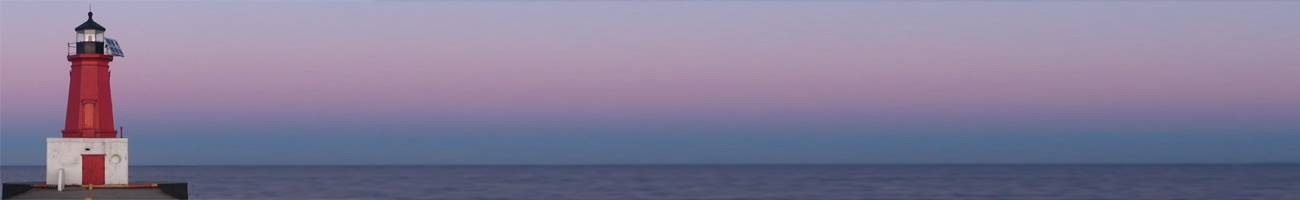
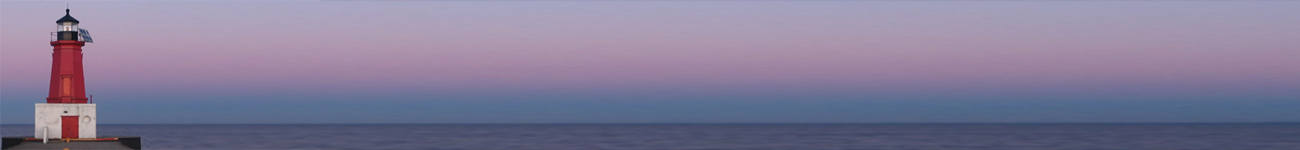
Updated styles

Changed region(s): [[0.0, 0.0533, 0.1538, 1.0]]

diff --git a/src/styles/style.scss b/src/styles/style.scss
@@ -40,7 +40,7 @@ body {
 	height: 100px;
 	h1 {
 		@include flex-item(1);
-		@include cover-text(2.5em);
+		@include cover-text(3em);
 	}
 }
 
@@ -58,9 +58,9 @@ body {
 
 @media (min-width: 769px) {
 	.header {
-		height: 200px;
+		height: 150px;
 		h1 {
-			font-size: 4em;
+			font-size: 3.5em;
 		}
 	}
 }

diff --git a/src/styles/_loading.scss b/src/styles/_loading.scss
@@ -4,6 +4,7 @@
 	background-image: url('/src/images/background.jpg');
 	background-size: cover;
 	margin-top: -30px;
+	height: 600px;
 	h1 {
 		text-align: center;
 		font-size: 3em;

diff --git a/src/styles/_carousel.scss b/src/styles/_carousel.scss
@@ -114,7 +114,7 @@ li {
     float: left;
   }
   .slick-dots {
-  	max-width: 100%;
+  	max-width: 80%;
 	}
 	.slick-list {
 		padding: 10px;
